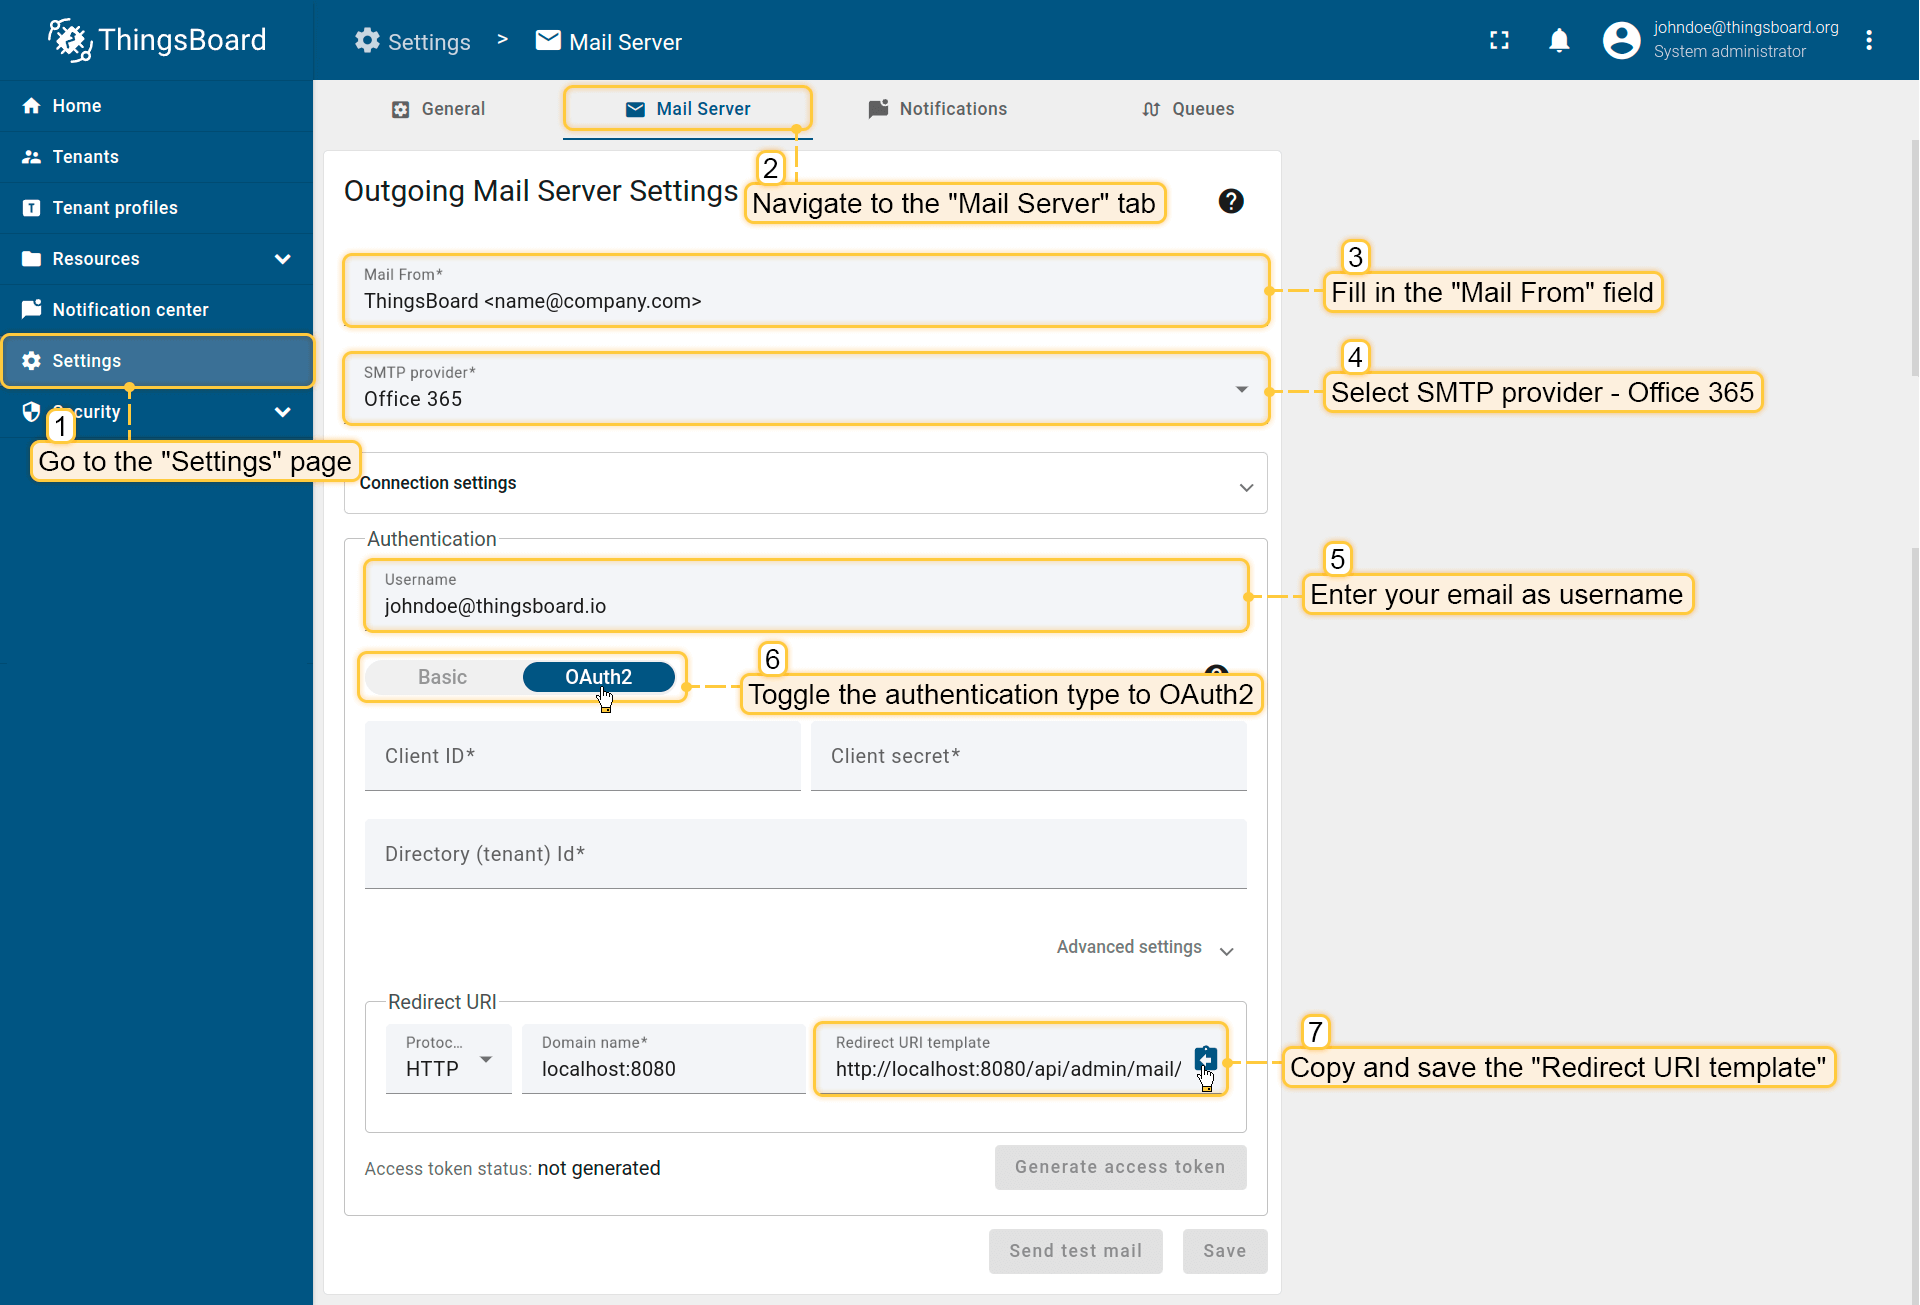
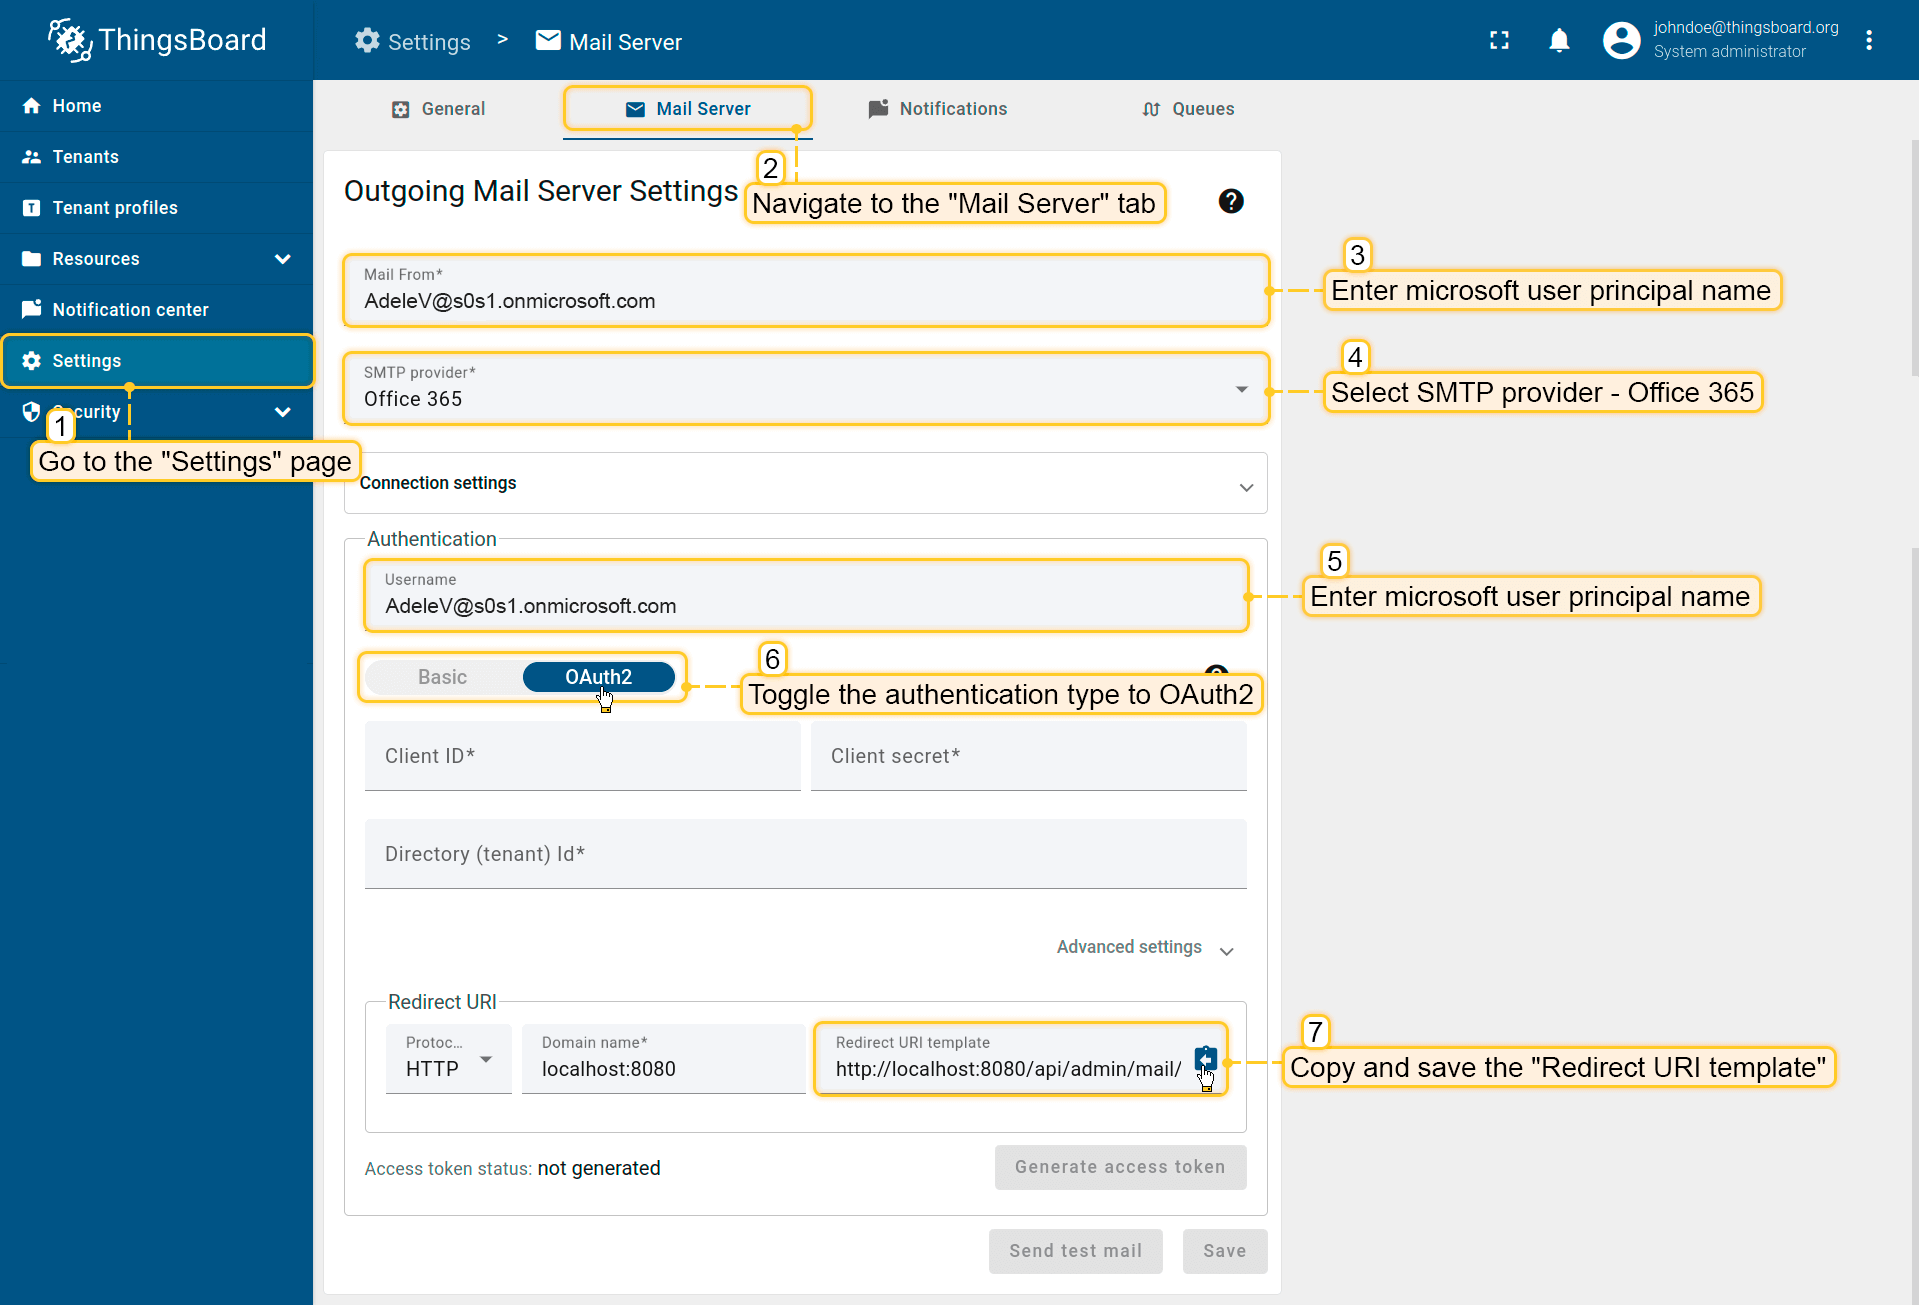
edited office 365

diff --git a/_includes/docs/user-guide/ui/mail-settings.md b/_includes/docs/user-guide/ui/mail-settings.md
@@ -176,14 +176,28 @@ To check if everything works click "Send test email" button. Keep in mind that e
 
 Starting from Thingsboard 3.5.2 it is possible to use OAuth2 authorization for Office 365 SMTP server. 
 
+{% capture difference %}
+**Please note:**
+<br>
+Take a note that OAuth 2.0 is supported for Microsoft 365 accounts, but NOT for personal Outlook accounts (e.g. @outlook.com or @hotmail.com accounts). 
+{% endcapture %}
+{% include templates/info-banner.md content=difference %}
+
+First, go to the "Azure directory" to save user principal name of user you want to use for mail sending (if not exists, please create or invite from external services):
+
+ - Sign in to the [Azure portal](https://portal.azure.com/) and select Microsoft Entra ID;
+ - Select microsoft user and copy user principal name.
+
+{% include images-gallery.html imageCollection="microsoft-azure-with-oauth2" %}
+
 To use Office 365 OAuth2 you need to register an application in the Azure portal but first let’s set up Thingsboard mail server settings.
 
-**1. Setup ThingsBoard mail server settings**
+**1. Setup ThingsBoard mail server settings**:
 
  - In your ThingsBoard instance, go to the "Settings" page -> "Mail Server" tab;
- - Fill in the "mail From" field;
+ - Enter previously copied Microsoft user principal name (e.g. app_user@onmicrosoft.com);
  - Select SMTP provider - "**Office 365**";
- - In the "Authentication" block, fill in username with email address you are going to use for sending mail from;
+ - In the "Authentication" block, fill in username with microsoft user principal name (the same as you used for mail from);
  - Toggle the authentication type to **OAuth2**;
  - Copy and save the "**Redirect URI template**". It will be needed while set up the Azure portal credentials.
 
@@ -195,22 +209,22 @@ To use Office 365 OAuth2 you need to register an application in the Azure portal
 {% endif %}
 
 <br>
-**2. Now let's register an application in the [Azure portal](https://portal.azure.com/)**
+**2. Now let's register an application in the Azure portal**:
 
 {% include images-gallery.html imageCollection="azure-portal" showListImageTitles="true" %}
 
 <br>
-**3. Then you need to create a "Client secret"**
+**3. Then you need to create a "Client secret"**:
 
 {% include images-gallery.html imageCollection="azure-portal-2" showListImageTitles="true" %}
 
 <br>
-**4. To finish the authentication set up you need add API permissions for SMTP**
+**4. To finish the authentication set up you need add API permissions for SMTP**:
 
 {% include images-gallery.html imageCollection="add-api-permissions" showListImageTitles="true" %}
 
 <br>
-**5. Complete ThingsBoard settings setup**
+**5. Complete ThingsBoard settings setup**:
 
 Back to the ThingsBoard portal and paste **Client ID**, **Client secret** and **Directory (tenant) ID** from the previous steps into the appropriate fields. Click "Save".
 
@@ -222,7 +236,7 @@ Back to the ThingsBoard portal and paste **Client ID**, **Client secret** and **
 {% endif %}
 
 <br>
-**6. Generate access token**
+**6. Generate access token**:
 
 Finally, we can get access token. For this click on the "Generate access token" button and your browser will redirect you to provider login page. Please follow the steps
 in your browser and after acceptance we will automatically save Refresh Token and Access Token and redirect you back to ThingsBoard portal. 
@@ -236,7 +250,7 @@ If access token was successfully generated you will see status "generated".
 {% endif %}
 
 <br>
-**7. Send test email**
+**7. Send test email**:
 
 To check if everything works click "Send test email" button. Keep in mind that each time you change provider info system will drop refresh and access token and you will need to generate it again.
 

diff --git a/docs/pe/user-guide/ui/mail-settings.md b/docs/pe/user-guide/ui/mail-settings.md
@@ -52,17 +52,22 @@ create-gmail-credentials:
         image: /images/user-guide/ui/mail/gmail-with-oauth2-5-pe.png
         title: 'Save created client ID and client secret for future steps.'
 
+microsoft-azure-with-oauth2:
+    0:
+        image: /images/user-guide/ui/mail/azure-create-application-1.png
+        title: 'Sign in to the Azure portal and select Microsoft Entra ID;'
+    1:
+        image: /images/user-guide/ui/mail/microsoft-azure-copy-user-principal-name-1-pe.png
+        title: 'Select microsoft user and copy user principal name.'
+
 azure-portal:
     0:
-        image: /images/user-guide/ui/mail/microsoft-azure-with-oauth2-1-pe.png
-        title: 'Sign in to the Azure portal and select Azure Active Directory;'
+        image: /images/user-guide/ui/mail/azure-create-application-2.png
+        title: 'Under the "Manage" section select the "App registrations" page, and click the "New registration" button;'
     1:
-        image: /images/user-guide/ui/mail/microsoft-azure-with-oauth2-2-pe.png
-        title: 'Under "Manage" select "App registrations" then click "New registration";'
+        image: /images/user-guide/ui/mail/azure-create-application-3.png
+        title: 'Enter a name for your application and paste the previously copied "Redirect URI template". Click the "Register" button;'
     2:
-        image: /images/user-guide/ui/mail/microsoft-azure-with-oauth2-3-pe.png
-        title: 'Input a name for your application and enter the previously copied "Redirect URI template". Click "Register";'
-    3:
         image: /images/user-guide/ui/mail/microsoft-azure-with-oauth2-4-pe.png
         title: 'After application is created you can find "Client ID" and "Directory (tenant) ID" on "Overview" page. Save them for future steps.'
 

diff --git a/docs/user-guide/ui/mail-settings.md b/docs/user-guide/ui/mail-settings.md
@@ -52,17 +52,22 @@ create-gmail-credentials:
         image: /images/user-guide/ui/mail/gmail-with-oauth2-5-pe.png
         title: 'Save created client ID and client secret for future steps.'
 
+microsoft-azure-with-oauth2:
+    0:
+        image: /images/user-guide/ui/mail/azure-create-application-1.png
+        title: 'Sign in to the Azure portal and select Microsoft Entra ID;'
+    1:
+        image: /images/user-guide/ui/mail/microsoft-azure-copy-user-principal-name-1-pe.png
+        title: 'Select microsoft user and copy user principal name.'
+
 azure-portal:
     0:
-        image: /images/user-guide/ui/mail/microsoft-azure-with-oauth2-1-pe.png
-        title: 'Sign in to the Azure portal and select Azure Active Directory;'
+        image: /images/user-guide/ui/mail/azure-create-application-2.png
+        title: 'Under the "Manage" section select the "App registrations" page, and click the "New registration" button;'
     1:
-        image: /images/user-guide/ui/mail/microsoft-azure-with-oauth2-2-pe.png
-        title: 'Under "Manage" select "App registrations" then click "New registration";'
+        image: /images/user-guide/ui/mail/azure-create-application-3.png
+        title: 'Enter a name for your application and paste the previously copied "Redirect URI template". Click the "Register" button;'
     2:
-        image: /images/user-guide/ui/mail/microsoft-azure-with-oauth2-3-pe.png
-        title: 'Input a name for your application and enter the previously copied "Redirect URI template". Click "Register";'
-    3:
         image: /images/user-guide/ui/mail/microsoft-azure-with-oauth2-4-pe.png
         title: 'After application is created you can find "Client ID" and "Directory (tenant) ID" on "Overview" page. Save them for future steps.'
 
